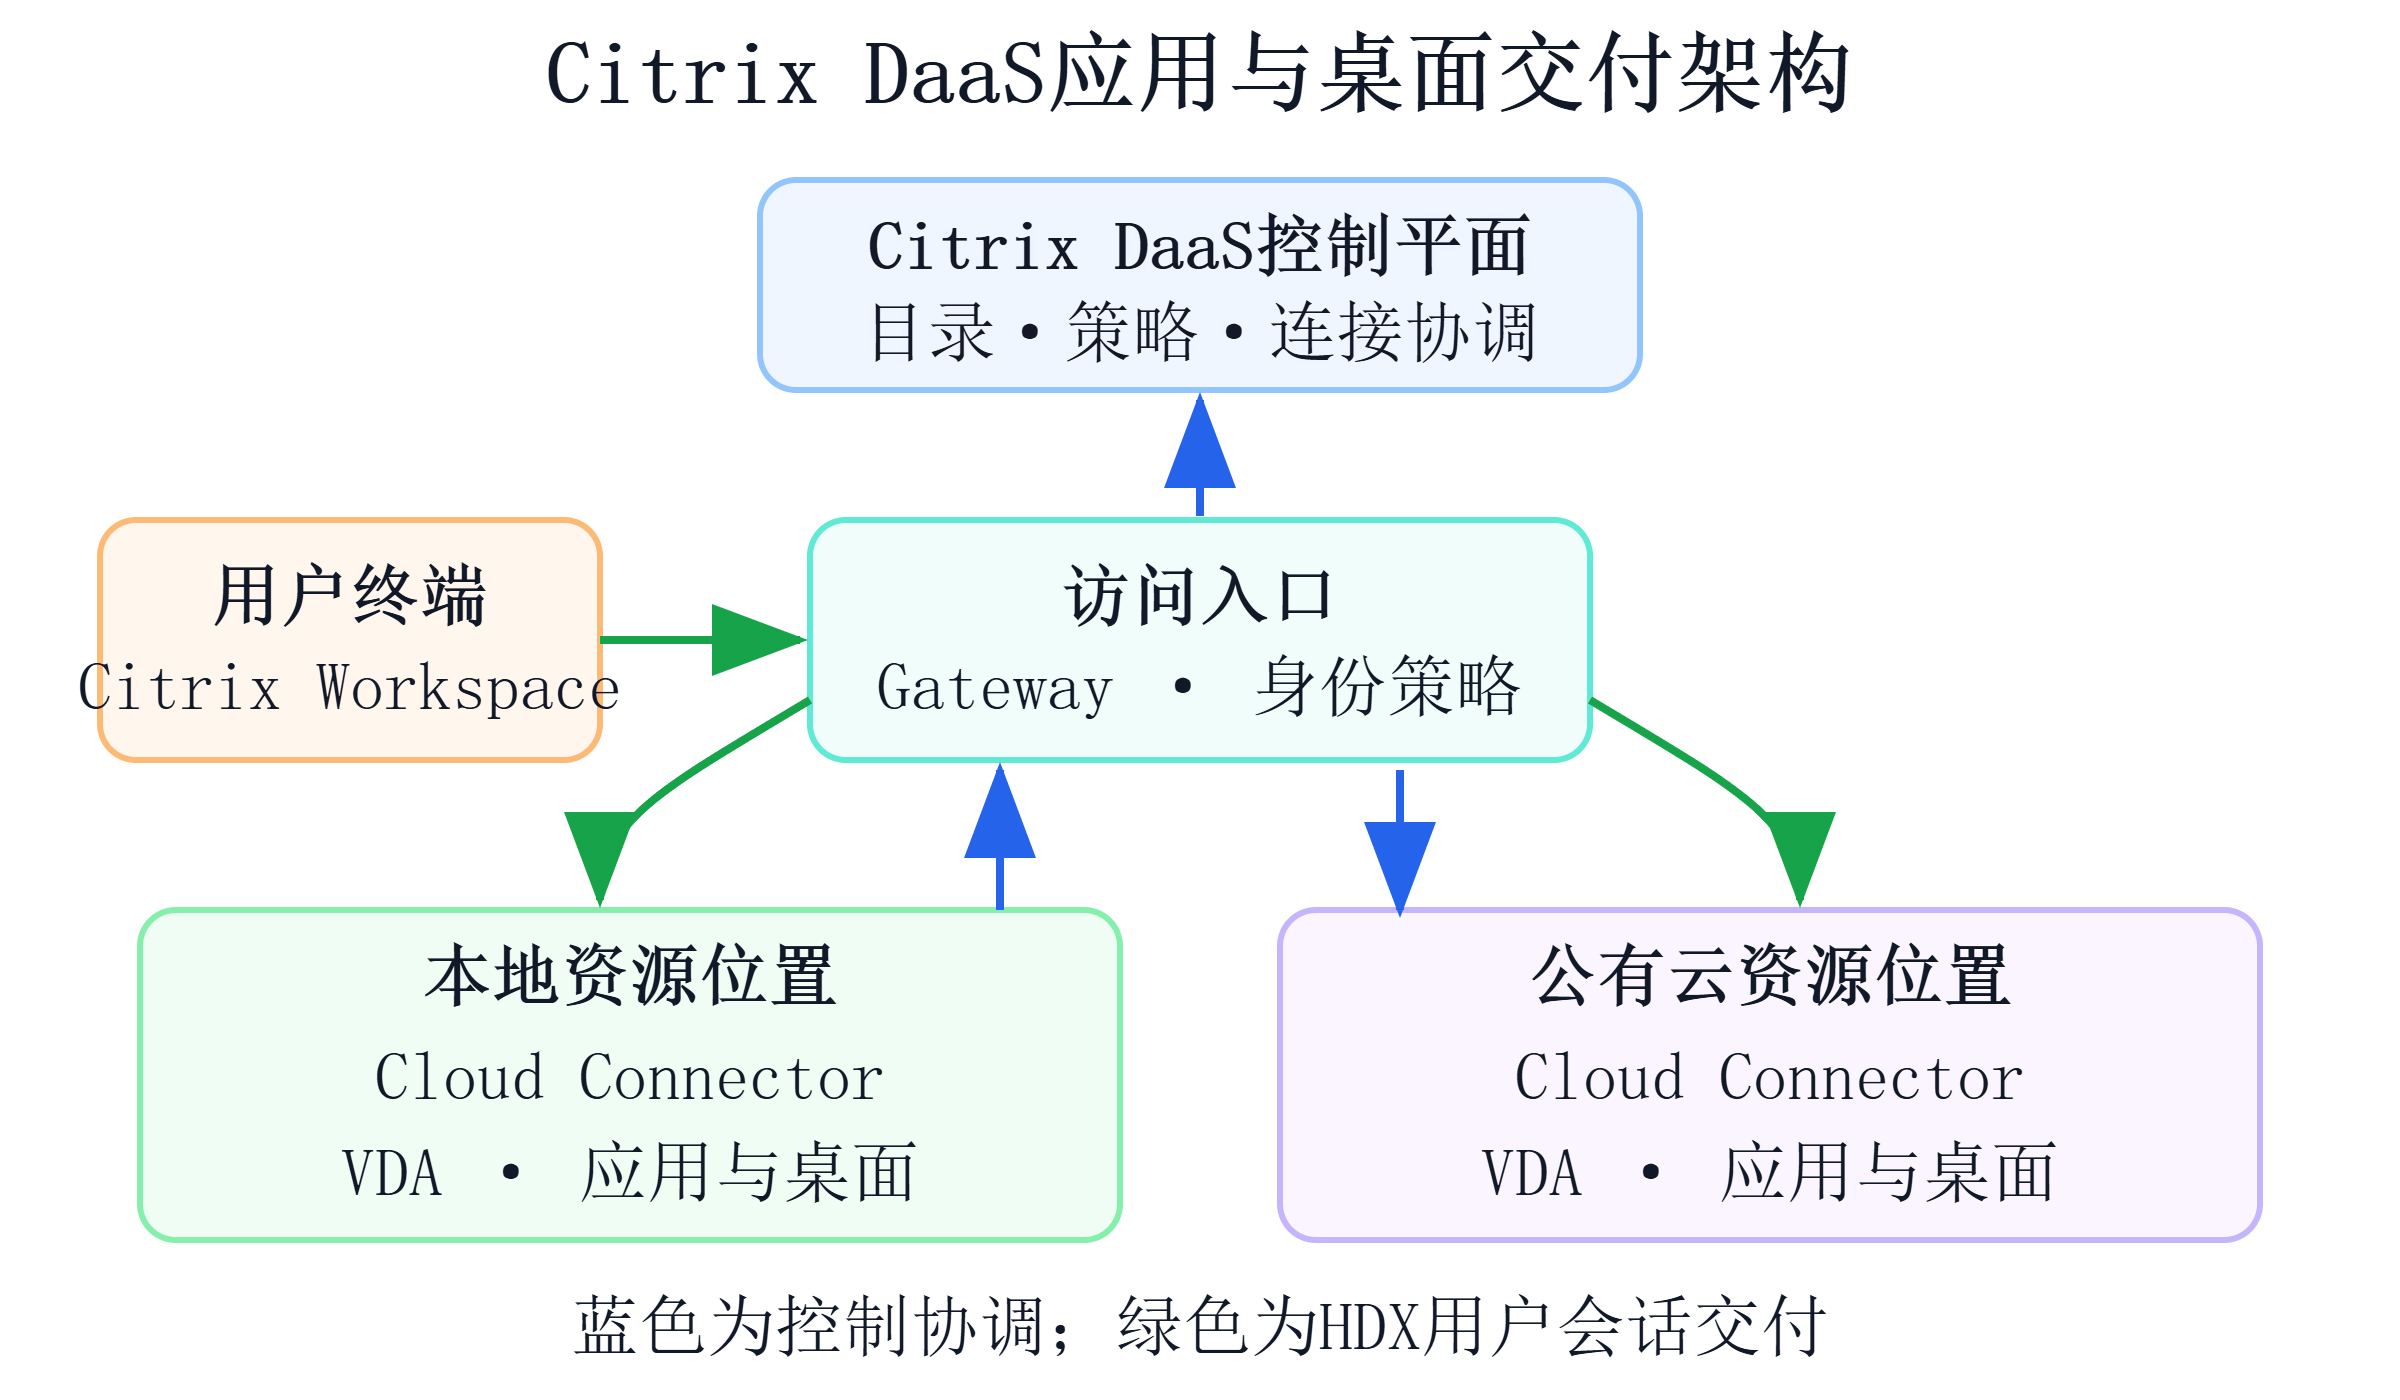
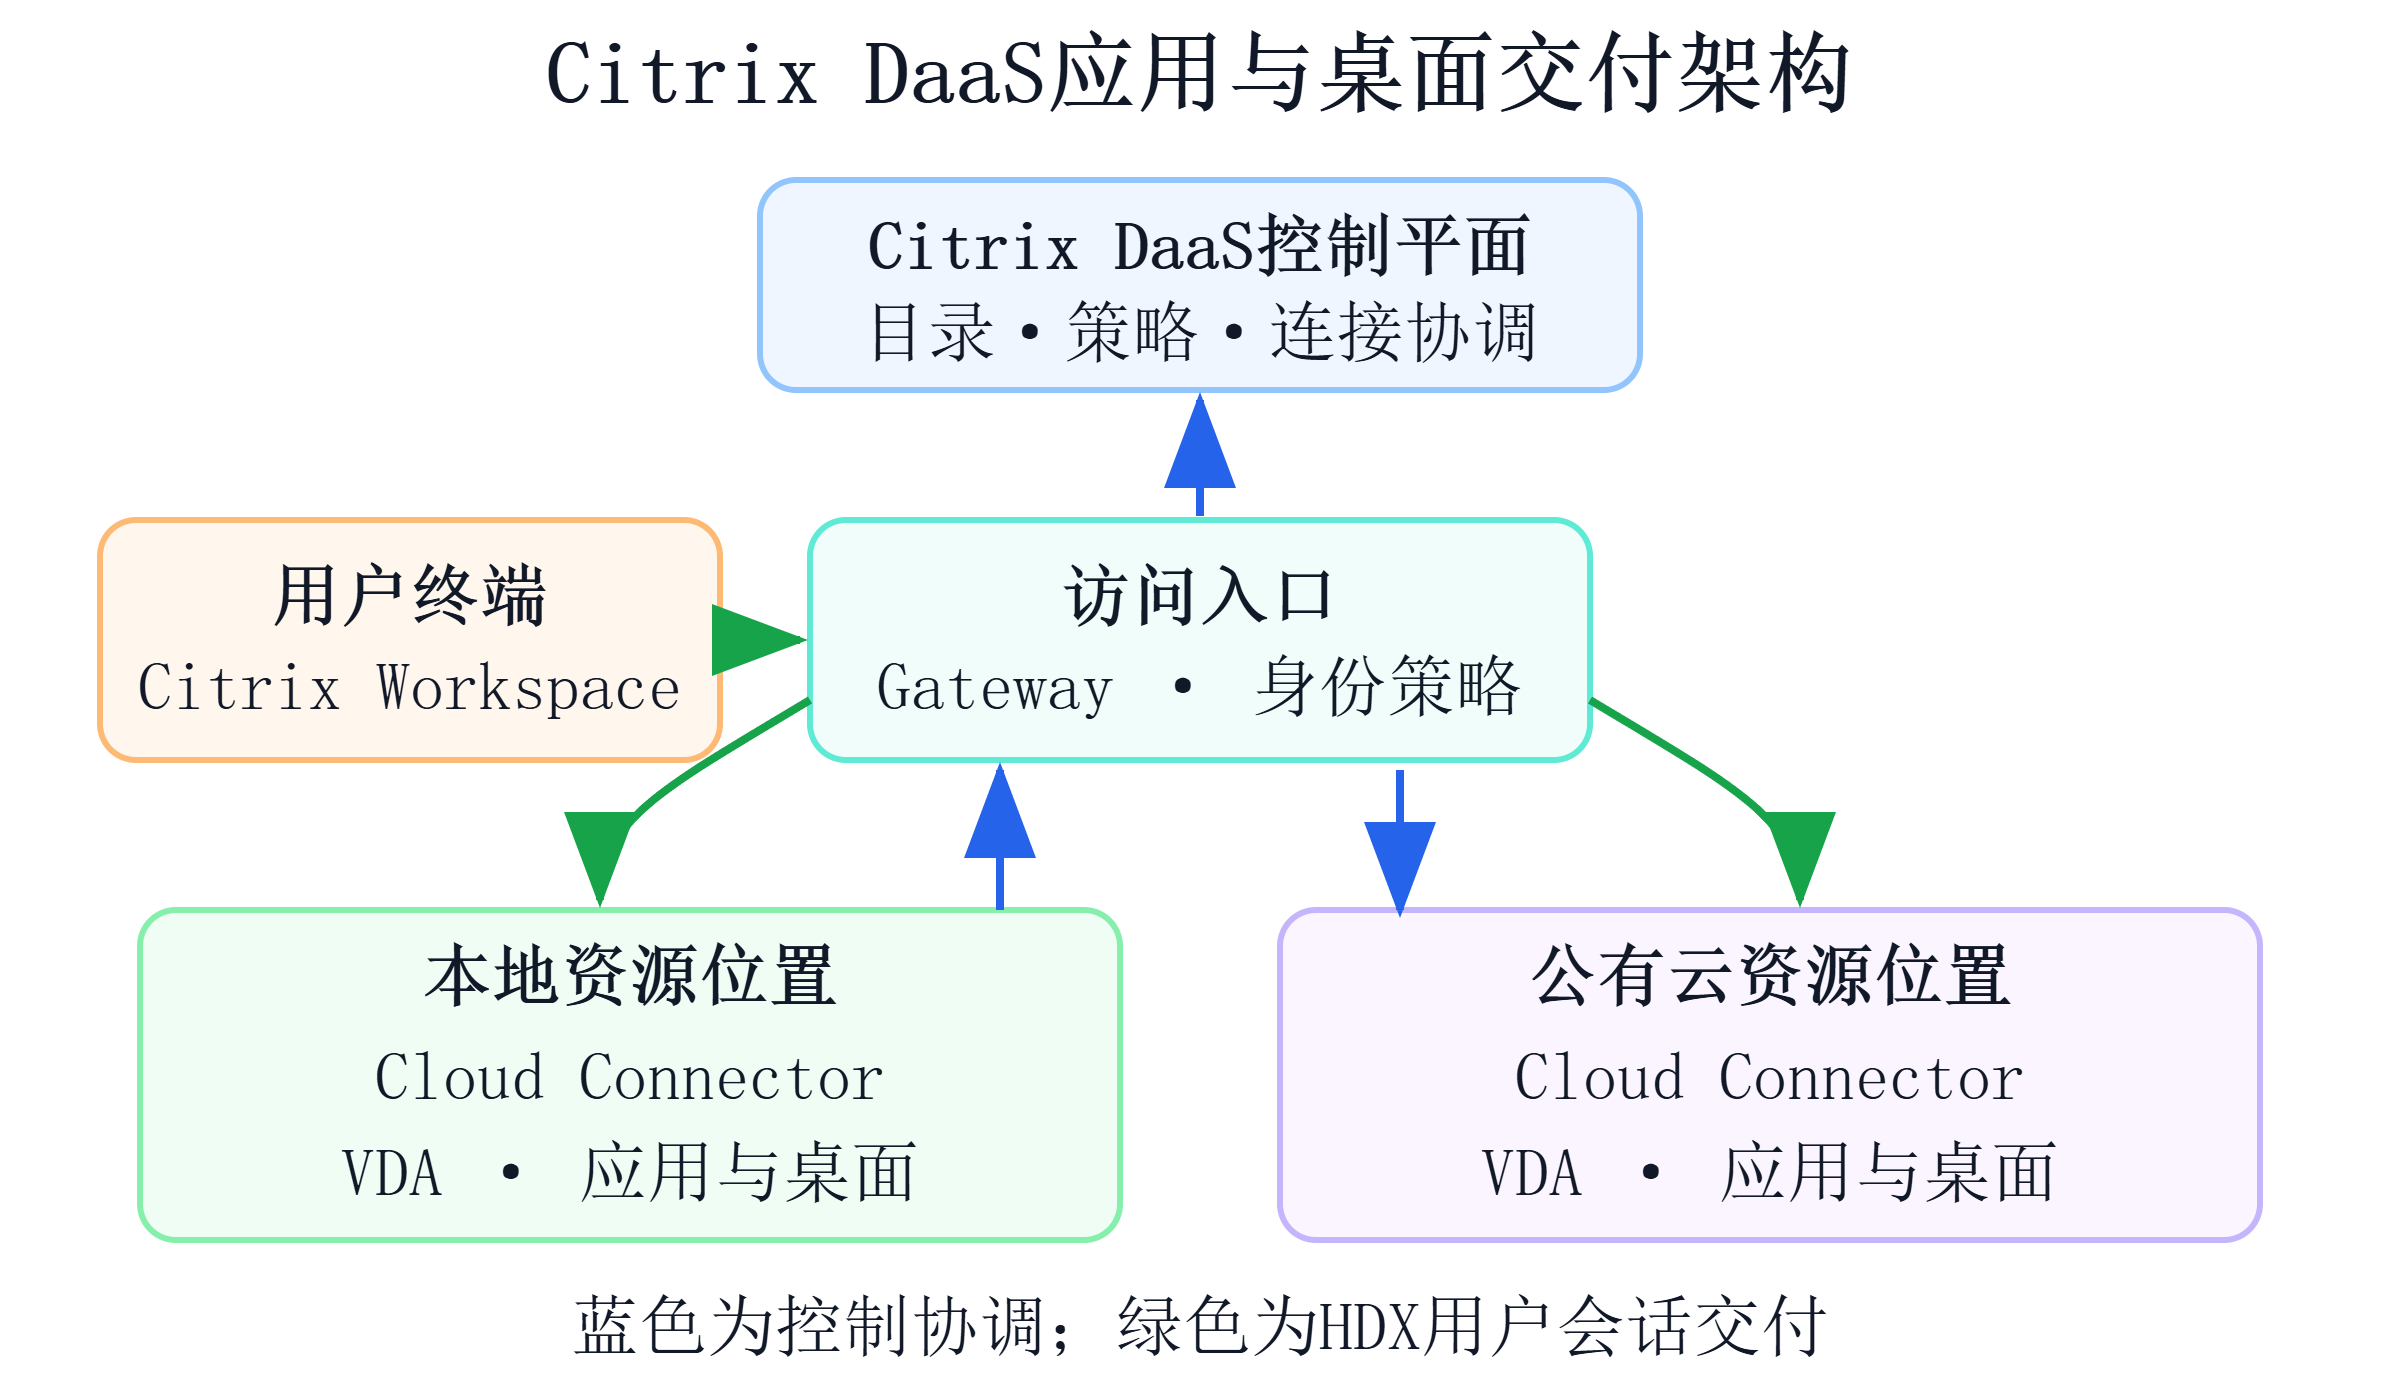
docs: build chapters 1 and 2 review edition

Changed region(s): [[0.0312, 0.3686, 0.3125, 0.5529]]

diff --git a/third-edition-work/tools/build_chapters_1_2_review_docx.py b/third-edition-work/tools/build_chapters_1_2_review_docx.py
@@ -1,0 +1,249 @@
+"""Insert the approved chapter figures into a bounded Word review candidate.
+
+The script opens the input through an isolated Microsoft Word instance, writes a
+new DOCX, and exports the same layout as PDF.  It never overwrites its input or
+an existing output artifact.
+"""
+
+from __future__ import annotations
+
+import argparse
+import json
+import re
+import tempfile
+from pathlib import Path
+from zipfile import ZIP_DEFLATED, ZipFile
+
+import pythoncom
+import win32com.client
+from lxml import etree
+
+
+WD_ALIGN_PARAGRAPH_LEFT = 0
+WD_ALIGN_PARAGRAPH_CENTER = 1
+WD_COLLAPSE_END = 0
+WD_FIND_STOP = 0
+WD_FORMAT_DOCUMENT_DEFAULT = 16
+WD_EXPORT_FORMAT_PDF = 17
+MSO_TRUE = -1
+
+CHAPTER_ONE = "第一章 云计算基本概念"
+CHAPTER_THREE = "第三章 原生OpenStack云平台"
+W_NS = "http://schemas.openxmlformats.org/wordprocessingml/2006/main"
+W = f"{{{W_NS}}}"
+
+
+def _find_exact_paragraphs(document, text: str) -> list[tuple[int, int]]:
+    matches: list[tuple[int, int]] = []
+    search = document.Content.Duplicate
+    while search.Find.Execute(
+        FindText=text,
+        Forward=True,
+        Wrap=WD_FIND_STOP,
+        Format=False,
+        MatchCase=True,
+        MatchWholeWord=False,
+    ):
+        paragraph = search.Paragraphs(1)
+        actual = paragraph.Range.Text.rstrip("\r\x07").strip()
+        if actual == text:
+            matches.append((paragraph.Range.Start, paragraph.Range.End))
+        next_start = search.End
+        if next_start >= document.Content.End:
+            break
+        search.SetRange(next_start, document.Content.End)
+    return matches
+
+
+def _set_simsun(font, size: float) -> None:
+    font.NameFarEast = "宋体"
+    font.NameAscii = "Times New Roman"
+    font.NameOther = "Times New Roman"
+    font.Size = size
+
+
+def _prepare_inner_headings(input_docx: Path, prepared_docx: Path) -> None:
+    """Remove body indents from inner headings without a slow Word COM loop."""
+
+    chinese_heading = re.compile(r"^[一二三四五六七八九十]+．")
+    arabic_heading = re.compile(r"^\d+．")
+    namespace = {"w": W_NS}
+
+    with ZipFile(input_docx, "r") as source:
+        document_xml = source.read("word/document.xml")
+        root = etree.fromstring(document_xml)
+        in_scope = False
+        chapter_one_count = 0
+        chapter_three_count = 0
+        changed = 0
+        for paragraph in root.xpath(".//w:body/w:p", namespaces=namespace):
+            text = "".join(
+                paragraph.xpath(".//w:t/text()", namespaces=namespace)
+            ).strip()
+            if text == CHAPTER_ONE:
+                chapter_one_count += 1
+                in_scope = True
+            elif text == CHAPTER_THREE:
+                chapter_three_count += 1
+                in_scope = False
+            elif in_scope and (
+                chinese_heading.match(text) or arabic_heading.match(text)
+            ):
+                properties = paragraph.find(f"{W}pPr")
+                if properties is None:
+                    properties = etree.Element(f"{W}pPr")
+                    paragraph.insert(0, properties)
+                indent = properties.find(f"{W}ind")
+                if indent is not None:
+                    properties.remove(indent)
+                alignment = properties.find(f"{W}jc")
+                if alignment is None:
+                    alignment = etree.Element(f"{W}jc")
+                    run_properties = properties.find(f"{W}rPr")
+                    if run_properties is None:
+                        properties.append(alignment)
+                    else:
+                        properties.insert(properties.index(run_properties), alignment)
+                alignment.set(f"{W}val", "left")
+                changed += 1
+
+        if chapter_one_count != 1 or chapter_three_count != 1 or not changed:
+            raise RuntimeError(
+                "inner-heading preparation failed: "
+                f"chapter_one={chapter_one_count} "
+                f"chapter_three={chapter_three_count} changed={changed}"
+            )
+
+        updated_xml = etree.tostring(
+            root,
+            encoding="UTF-8",
+            xml_declaration=True,
+            standalone=True,
+        )
+        with ZipFile(prepared_docx, "w", compression=ZIP_DEFLATED) as target:
+            target.comment = source.comment
+            for info in source.infolist():
+                payload = updated_xml if info.filename == "word/document.xml" else source.read(info)
+                target.writestr(info, payload)
+
+
+def build_review_docx(
+    input_docx: Path,
+    output_docx: Path,
+    output_pdf: Path,
+    manifest_path: Path,
+) -> None:
+    for path in (input_docx, manifest_path):
+        if not path.is_file():
+            raise FileNotFoundError(path)
+    for path in (output_docx, output_pdf):
+        if path.exists():
+            raise FileExistsError(f"refusing to overwrite existing output: {path}")
+
+    records = json.loads(manifest_path.read_text(encoding="utf-8"))
+    revision_root = manifest_path.parent.parent
+    expected_numbers = [
+        *(f"图1.{index}" for index in range(1, 6)),
+        *(f"图2.{index}" for index in range(1, 8)),
+    ]
+    actual_numbers = [record["number"] for record in records]
+    if actual_numbers != expected_numbers:
+        raise ValueError(f"unexpected figure order: {actual_numbers}")
+
+    pythoncom.CoInitialize()
+    temporary = tempfile.TemporaryDirectory(prefix="chapters-1-2-review-")
+    word = None
+    document = None
+    try:
+        prepared_docx = Path(temporary.name) / "prepared.docx"
+        _prepare_inner_headings(input_docx, prepared_docx)
+        word = win32com.client.DispatchEx("Word.Application")
+        word.Visible = False
+        word.DisplayAlerts = 0
+        word.ScreenUpdating = False
+        document = word.Documents.Open(
+            str(prepared_docx.resolve()),
+            ReadOnly=True,
+            AddToRecentFiles=False,
+        )
+
+        placements: list[tuple[int, int, dict, Path]] = []
+        for record in records:
+            marker = "{{FIGURE:" + record["number"] + "}}"
+            matches = _find_exact_paragraphs(document, marker)
+            if len(matches) != 1:
+                raise RuntimeError(f"marker {marker!r} occurs {len(matches)} times")
+            png_path = (revision_root / record["png"]).resolve()
+            if not png_path.is_file():
+                raise FileNotFoundError(png_path)
+            placements.append((*matches[0], record, png_path))
+
+        # Work from the end so earlier Word ranges do not move.
+        for start, end, record, png_path in sorted(placements, reverse=True):
+            selection = word.Selection
+            selection.SetRange(start, end - 1)
+            if selection.Text.strip() != "{{FIGURE:" + record["number"] + "}}":
+                raise RuntimeError(f"marker changed before placement: {record['number']}")
+            selection.Text = ""
+            selection.SetRange(start, start)
+            shape = selection.InlineShapes.AddPicture(
+                FileName=str(png_path),
+                LinkToFile=False,
+                SaveWithDocument=True,
+            )
+            shape.LockAspectRatio = MSO_TRUE
+            shape.Width = float(record["width_cm"]) * 28.3464566929
+            selection.ParagraphFormat.Alignment = WD_ALIGN_PARAGRAPH_CENTER
+            selection.ParagraphFormat.LeftIndent = 0
+            selection.ParagraphFormat.FirstLineIndent = 0
+            selection.Collapse(WD_COLLAPSE_END)
+            selection.TypeParagraph()
+            selection.TypeText(f"{record['number']} {record['title']}")
+            _set_simsun(selection.Font, 9.0)
+            selection.Font.Bold = MSO_TRUE
+            selection.ParagraphFormat.Alignment = WD_ALIGN_PARAGRAPH_CENTER
+            selection.ParagraphFormat.LeftIndent = 0
+            selection.ParagraphFormat.FirstLineIndent = 0
+
+        document.SaveAs2(
+            str(output_docx.resolve()),
+            FileFormat=WD_FORMAT_DOCUMENT_DEFAULT,
+            AddToRecentFiles=False,
+        )
+        document.ExportAsFixedFormat(
+            str(output_pdf.resolve()),
+            WD_EXPORT_FORMAT_PDF,
+            OpenAfterExport=False,
+            OptimizeFor=0,
+            Range=0,
+            Item=0,
+            IncludeDocProps=True,
+            KeepIRM=True,
+            CreateBookmarks=1,
+            DocStructureTags=True,
+            BitmapMissingFonts=True,
+            UseISO19005_1=False,
+        )
+    finally:
+        if document is not None:
+            document.Close(SaveChanges=False)
+        if word is not None:
+            word.Quit(SaveChanges=False)
+        temporary.cleanup()
+        pythoncom.CoUninitialize()
+
+
+def main() -> None:
+    parser = argparse.ArgumentParser()
+    parser.add_argument("--input", type=Path, required=True)
+    parser.add_argument("--output-docx", type=Path, required=True)
+    parser.add_argument("--output-pdf", type=Path, required=True)
+    parser.add_argument("--manifest", type=Path, required=True)
+    args = parser.parse_args()
+    build_review_docx(args.input, args.output_docx, args.output_pdf, args.manifest)
+    print(f"PASS DOCX: {args.output_docx}")
+    print(f"PASS PDF: {args.output_pdf}")
+
+
+if __name__ == "__main__":
+    main()
